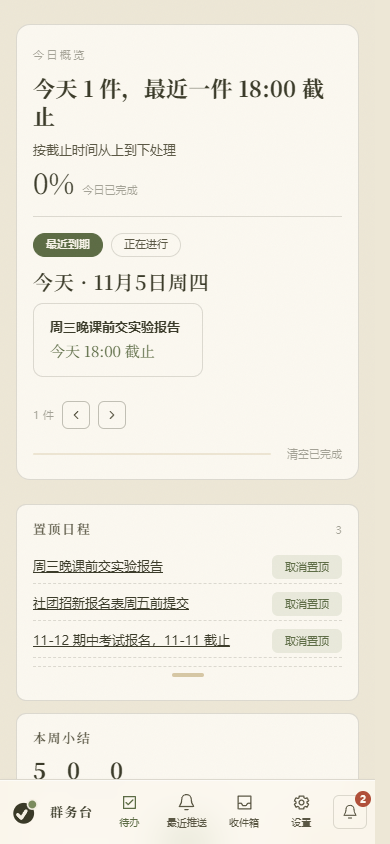
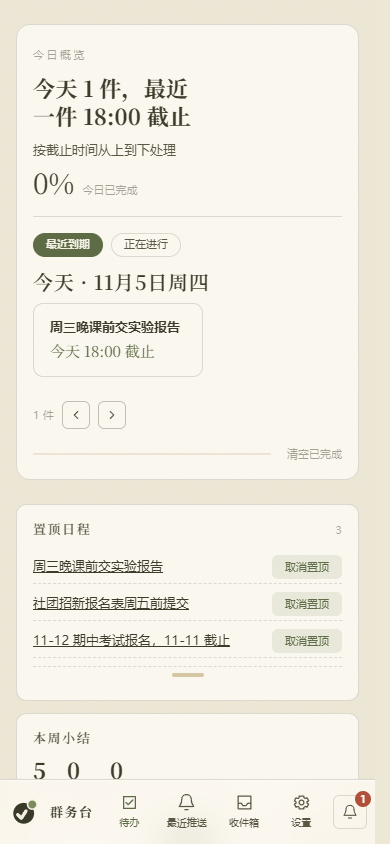
docs(promo): rebuild the posters and the nine cards against beta.1

diff --git a/docs/promo/poster.html b/docs/promo/poster.html
@@ -6,10 +6,51 @@
 <title>群务台 · notice-hub</title>
 <style>
 :root{--page:#e8ebee;--paper:#fff;--paper-alt:#f2f4f6;--ink:#172722;--muted:#3d4f47;--line:#b0b8bd;--teal:#12695b;--teal-soft:#d6ede7;--warm:#f7efe8;--shadow:0 18px 40px rgba(20,49,39,.10);--font:"MiSans","HarmonyOS Sans","PingFang SC","Microsoft YaHei",sans-serif}
-*{box-sizing:border-box}html,body{margin:0;background:var(--page);color:var(--ink);font-family:var(--font);font-synthesis:none}body{min-width:320px}.poster{position:relative;overflow:hidden;width:100vw;height:100vh;min-height:560px;padding:clamp(30px,4.2vw,72px) clamp(30px,5.4vw,104px) clamp(24px,3.4vw,58px);background:var(--page)}.poster:before{content:"";position:absolute;inset:0;pointer-events:none;opacity:.4;background-image:radial-gradient(#9eb5ac 1px,transparent 1px);background-size:28px 28px;mask-image:linear-gradient(90deg,black,transparent 45%)}.frame{position:relative;z-index:1;display:grid;grid-template-columns:minmax(0,.94fr) minmax(560px,1.34fr);gap:clamp(28px,3.4vw,72px);height:100%;max-width:1740px;margin:auto;align-items:center}.copy{display:flex;flex-direction:column;align-items:flex-start;min-width:0}.brand{display:flex;align-items:center;gap:12px;margin-bottom:clamp(34px,5vh,62px);color:var(--teal);font-size:19px;font-weight:700;letter-spacing:.08em}.brand-mark{display:grid;place-items:center;width:34px;height:34px;border:2px solid var(--teal);border-radius:50%;font-size:20px;line-height:1}.title{margin:0;max-width:700px;font-size:clamp(42px,5.2vw,88px);line-height:1.08;letter-spacing:-.055em;font-weight:750}.subtitle{margin:24px 0 0;color:var(--muted);font-size:clamp(18px,1.7vw,29px);line-height:1.4;font-weight:500}.changes{display:grid;grid-template-columns:1fr 1fr;gap:11px 26px;margin:34px 0 0;padding:0;list-style:none;color:var(--muted);font-size:clamp(13px,1.02vw,17px);line-height:1.36}.changes li{display:flex;gap:10px;align-items:flex-start}.changes b{flex:0 0 auto;display:grid;place-items:center;width:1.6em;height:1.6em;margin-top:.05em;border-radius:7px;background:var(--teal-soft);color:var(--teal);font-size:.8em;font-weight:800;font-variant-numeric:tabular-nums}.footer{display:flex;flex-wrap:wrap;gap:12px 20px;align-items:center;margin-top:auto;padding-top:30px;color:var(--muted);font-size:clamp(11px,.85vw,14px);line-height:1.4}.badge{padding:8px 12px;border:1px solid #b4c3bd;border-radius:999px;background:rgba(255,255,255,.55)}.url{font-variant-numeric:tabular-nums;letter-spacing:.02em}.visual{position:relative;min-width:0;display:flex;align-items:center;justify-content:center;padding:18px 0 18px 20px}.visual:before{content:"";position:absolute;inset:12% -4% 5% 8%;border:1px solid rgba(18,105,91,.22);border-radius:24px;background:rgba(214,237,231,.38);transform:rotate(-2deg);z-index:-1}.desktop-shot{display:block;width:100%;max-height:none;object-fit:cover;object-position:top left;border:1px solid #b6c8c0;border-radius:16px;box-shadow:var(--shadow);background:#fff}.phone-shot{position:absolute;right:-3%;bottom:-8%;width:22%;max-height:none;object-fit:cover;object-position:top left;border:5px solid #fff;border-radius:22px;box-shadow:0 15px 30px rgba(20,49,39,.18);transform:rotate(2.5deg);background:#fff}.corner{position:absolute;right:0;top:2%;width:44px;height:44px;border-top:1px solid var(--teal);border-right:1px solid var(--teal)}
-@media (max-aspect-ratio:1.25/1){.poster{height:auto;min-height:100vh;padding:44px 34px 30px}.frame{grid-template-columns:1fr;gap:30px;min-height:calc(100vh - 74px);align-content:start}.brand{margin-bottom:36px}.title{font-size:clamp(42px,8vw,70px)}.visual{order:2;padding:10px 0 30px}.desktop-shot{max-height:none}.phone-shot{right:1%;bottom:-5%;width:24%;max-height:none}.footer{margin-top:32px}}
-@media (max-width:700px){.poster{padding:34px 24px 26px}.frame{gap:24px}.brand{margin-bottom:34px;font-size:16px}.title{font-size:clamp(38px,10vw,58px)}.subtitle{margin-top:18px;font-size:19px}.points{margin-top:26px;gap:10px;font-size:14px}.footer{margin-top:24px;gap:8px;font-size:10px}.badge{padding:6px 9px}.visual{padding-top:2px}.desktop-shot{max-height:none}.phone-shot{width:25%;border-width:3px;border-radius:14px}}
-@media (prefers-reduced-motion:reduce){.desktop-shot,.phone-shot,.visual:before{transform:none}}
+*{box-sizing:border-box}
+html,body{margin:0;background:var(--page);color:var(--ink);font-family:var(--font);font-synthesis:none}
+body{min-width:320px}
+.poster{position:relative;overflow:hidden;width:100vw;height:100vh;min-height:560px;padding:clamp(30px,4.2vw,72px) clamp(30px,5.4vw,104px) clamp(24px,3.4vw,58px);background:var(--page)}
+.poster:before{content:"";position:absolute;inset:0;pointer-events:none;opacity:.4;background-image:radial-gradient(#9eb5ac 1px,transparent 1px);background-size:28px 28px;mask-image:linear-gradient(90deg,black,transparent 45%)}
+.frame{position:relative;z-index:1;display:grid;grid-template-columns:minmax(0,.96fr) minmax(540px,1.3fr);gap:clamp(28px,3.4vw,72px);height:100%;max-width:1740px;margin:auto;align-items:center}
+.copy{display:flex;flex-direction:column;align-items:flex-start;min-width:0}
+.brand{display:flex;align-items:center;gap:12px;margin-bottom:clamp(30px,4.6vh,56px);color:var(--teal);font-size:19px;font-weight:700;letter-spacing:.08em}
+.brand-mark{display:grid;place-items:center;width:34px;height:34px;border:2px solid var(--teal);border-radius:50%;font-size:20px;line-height:1}
+.title{margin:0;max-width:720px;font-size:clamp(42px,5vw,84px);line-height:1.06;letter-spacing:-.055em;font-weight:750}
+.lede{margin:26px 0 0;max-width:640px;color:var(--muted);font-size:clamp(17px,1.5vw,26px);line-height:1.45;font-weight:500}
+.changes{display:grid;grid-template-columns:1fr;gap:12px;margin:clamp(26px,3.6vh,40px) 0 0;padding:0;list-style:none;color:var(--muted);font-size:clamp(14px,1.05vw,18px);line-height:1.4}
+.changes li{display:flex;gap:12px;align-items:baseline}
+.changes b{flex:0 0 auto;display:grid;place-items:center;width:1.65em;height:1.65em;border-radius:8px;background:var(--teal-soft);color:var(--teal);font-size:.78em;font-weight:800;font-variant-numeric:tabular-nums;align-self:center}
+.changes span{min-width:0}
+.footer{display:flex;flex-wrap:wrap;gap:10px 18px;align-items:center;margin-top:auto;padding-top:clamp(26px,3.4vh,40px);color:var(--muted);font-size:clamp(11px,.86vw,14px);line-height:1.4}
+.badge{padding:8px 12px;border:1px solid var(--line);border-radius:999px;background:var(--paper)}
+.url{font-variant-numeric:tabular-nums}
+.visual{position:relative;display:grid;place-items:center;min-width:0}
+.window{position:relative;width:100%;border-radius:18px;background:var(--paper);box-shadow:var(--shadow);overflow:hidden;border:1px solid rgba(23,39,34,.10)}
+.window-bar{display:flex;align-items:center;gap:7px;padding:11px 14px;border-bottom:1px solid rgba(23,39,34,.08);background:var(--paper-alt)}
+.window-bar i{width:9px;height:9px;border-radius:50%;background:#cfd6d9}
+.window-bar i:first-child{background:#e1b4a8}
+.window-bar i:nth-child(2){background:#e5d3a3}
+.window-bar i:nth-child(3){background:#a9cbba}
+.window-bar span{margin-left:8px;color:var(--muted);font-size:12px;letter-spacing:.02em}
+.desktop-shot{display:block;width:100%;height:auto}
+.phone-shot{position:absolute;right:-2%;bottom:-8%;width:23%;min-width:150px;border:6px solid #1b2a24;border-radius:26px;box-shadow:0 16px 32px rgba(20,49,39,.22);background:#1b2a24}
+.corner{position:absolute;inset:auto -3% -6% auto;width:38%;height:38%;border-radius:50%;background:radial-gradient(circle at 50% 50%,var(--warm),transparent 70%);filter:blur(8px);z-index:-1}
+/* 竖版：视口比窄时自动切换，渲染时把 viewport 设成 1080x1350 即可 */
+@media (max-aspect-ratio:1.24/1){
+  .poster{height:100vh;min-height:0;padding:62px 58px 46px;display:flex}
+  .frame{grid-template-columns:1fr;grid-template-rows:auto auto;gap:clamp(22px,3.4vh,38px);height:100%;align-content:space-between;align-items:stretch}
+  .title{font-size:clamp(54px,7vw,76px)}
+  .lede{font-size:clamp(20px,2.2vw,26px);max-width:900px}
+  .brand{margin-bottom:24px;font-size:18px}
+  .changes{gap:clamp(10px,1.5vh,16px);font-size:clamp(16px,1.75vw,20px);margin-top:clamp(18px,2.6vh,30px)}
+  .visual{order:2;height:clamp(360px,44vh,600px);overflow:hidden;align-items:start;padding:0}
+  .window{height:100%;border-radius:14px}
+  .desktop-shot{width:100%;height:100%;object-fit:cover;object-position:50% 0}
+  .phone-shot{display:none}
+  .corner{display:none}
+  .footer{margin-top:0;padding-top:clamp(18px,2.6vh,28px)}
+}
+@media (prefers-reduced-motion:reduce){.desktop-shot,.phone-shot{transform:none}}
 </style>
 </head>
 <body>
@@ -17,24 +58,24 @@
   <div class="frame">
     <section class="copy">
       <div class="brand"><span class="brand-mark">✓</span><span>群务台</span></div>
-      <h1 class="title">群里的通知，自动变成待办</h1>
-      <p class="subtitle">v1.1.0 测试版 · 相对 v1.0.0 有 8 处变化</p>
+      <h1 class="title">群里的通知，<br>自动变成待办</h1>
+      <p class="lede">四个来源，只读你勾的那几个群；要动手的事进待办台，截止日导进手机日历。数据留在这台电脑上。</p>
       <ol class="changes">
-        <li><b>1</b><span>钉钉群、学习通、微信群一起收进来</span></li>
-        <li><b>2</b><span>设置页一键检查更新，下载即覆盖</span></li>
-        <li><b>3</b><span>接入自检：卡住时告诉你卡在哪</span></li>
-        <li><b>4</b><span>手机点扫码不再闪退</span></li>
-        <li><b>5</b><span>连不上 / 失效都有出口</span></li>
-        <li><b>6</b><span>扫码页不再横屏</span></li>
-        <li><b>7</b><span>收件箱里能看见附件图</span></li>
-        <li><b>8</b><span>一批「看着正常其实断了」的毛病</span></li>
+        <li><b>1</b><span>钉钉群、微信群、学习通，跟 QQ 群一起收</span></li>
+        <li><b>2</b><span>待办台、月历、公告面板重做了一遍</span></li>
+        <li><b>3</b><span>设置页一键更新：下载、校验 SHA-256、覆盖</span></li>
+        <li><b>4</b><span>Linux 和 macOS 也能跑（源码 + systemd / LaunchAgent）</span></li>
+        <li><b>5</b><span>数据库坏了会自动隔离，每天留一份快照，保 7 天</span></li>
       </ol>
-      <div class="footer"><span class="badge">Windows 出货包 · 安卓 App · 源码开放 · 非商业许可（商用需授权） · v1.1.0-beta.1</span><span class="url">github.com/ExpertKT/notice-hub</span></div>
+      <div class="footer"><span class="badge">Windows 出货包 · 安卓 App · 源码开放 · 非商业许可（商用需授权） · v1.1.0 测试版</span><span class="url">github.com/ExpertKT/notice-hub</span></div>
     </section>
     <section class="visual" aria-label="群务台界面截图">
       <span class="corner"></span>
-      <img class="desktop-shot" src="../screenshots/desktop-tasks.png" alt="群务台桌面待办台截图">
-      <img class="phone-shot" src="shots/phone-overview.png" alt="群务台手机端截图">
+      <figure class="window">
+        <div class="window-bar"><i></i><i></i><i></i><span>127.0.0.1:8766 · 待办</span></div>
+        <img class="desktop-shot" src="../screenshots/desktop-tasks.png" alt="群务台桌面待办台：今日概览、置顶日程、本周小结、月历">
+      </figure>
+      <img class="phone-shot" src="../screenshots/phone-tasks.png" alt="群务台手机端待办台">
     </section>
   </div>
 </main>

diff --git a/docs/promo/cards.html b/docs/promo/cards.html
@@ -1,0 +1,167 @@
+<!doctype html>
+<html lang="zh-CN">
+<head>
+<meta charset="utf-8">
+<title>群务台 · 九图</title>
+<style>
+:root{
+  --page:#e8ebee;--paper:#fff;--ink:#172722;--dim:#4c5f59;--faint:#7b8b85;
+  --line:#dbe0e0;--teal:#12695b;--teal-soft:#d6ede7;--warm:#f7efe8;--card-alt:#f6f7f7;
+  --font:"MiSans","HarmonyOS Sans","PingFang SC","Microsoft YaHei",system-ui,sans-serif;
+  --serif:"Source Han Serif SC","Songti SC","SimSun",Georgia,serif;
+}
+*{box-sizing:border-box;margin:0;padding:0}
+body{background:var(--page);font-family:var(--font);color:var(--ink);padding:40px 22px;display:flex;flex-direction:column;gap:22px;align-items:center}
+.card{
+  width:1080px;height:1080px;flex:none;position:relative;overflow:hidden;
+  background:var(--paper);padding:78px 82px;display:flex;flex-direction:column;border-radius:6px;
+}
+.card::before{
+  content:"";position:absolute;top:0;right:0;width:430px;height:330px;
+  background-image:radial-gradient(circle,var(--teal) 1.4px,transparent 1.5px);
+  background-size:20px 20px;opacity:.16;
+  -webkit-mask-image:radial-gradient(circle at 100% 0,#000 0%,transparent 72%);
+          mask-image:radial-gradient(circle at 100% 0,#000 0%,transparent 72%);
+}
+.eyebrow{display:flex;justify-content:space-between;align-items:center;font-size:23px;letter-spacing:.14em;color:var(--teal)}
+.eyebrow .no{color:var(--faint);letter-spacing:.1em;font-variant-numeric:tabular-nums}
+h2{margin-top:38px;font-family:var(--serif);font-size:74px;line-height:1.16;letter-spacing:-.01em}
+.sub{margin-top:26px;font-size:29px;line-height:1.55;color:var(--dim);max-width:880px}
+.foot{position:absolute;left:82px;bottom:52px;font-size:21px;color:var(--faint);letter-spacing:.02em}
+.visual{margin-top:52px;flex:1;min-height:0;overflow:hidden;position:relative}
+.visual img{display:block;width:100%;height:100%;object-fit:cover;object-position:50% 0;border-radius:16px 16px 0 0;border:1px solid var(--line);border-bottom:0;box-shadow:0 14px 30px rgba(20,49,39,.08)}
+.visual.fit{flex:none;overflow:visible}
+.visual.fit img{width:100%;height:auto;object-fit:contain;border-bottom:1px solid var(--line);border-radius:16px}
+.visual.dock{margin-top:auto;flex:none;overflow:hidden;border-radius:16px 16px 0 0}
+.tiles{display:grid;grid-template-columns:1fr 1fr;gap:20px;margin-top:52px}
+.tile{border:1px solid var(--line);border-radius:18px;padding:30px 28px;background:var(--card-alt)}
+.tile b{display:block;font-size:34px;font-weight:600}
+.tile span{display:block;margin-top:10px;font-size:24px;color:var(--dim)}
+.note{margin-top:auto;margin-bottom:34px;font-size:26px;line-height:1.5;color:var(--dim);border-left:3px solid var(--teal-soft);padding-left:20px}
+.rows{display:flex;flex-direction:column;gap:14px;margin-top:44px}
+.row{display:flex;align-items:center;gap:16px;padding:20px 24px;border:1px solid var(--line);border-radius:14px;background:var(--card-alt);font-size:25px;color:var(--ink)}
+.row i{width:9px;height:9px;border-radius:50%;background:var(--teal);flex:none}
+.row em{margin-left:auto;font-style:normal;color:var(--faint);font-size:23px}
+.code{margin-top:44px;padding:30px 32px;border-radius:18px;background:#12211d;color:#dfeee9;font-family:"JetBrains Mono","Cascadia Mono",Consolas,monospace;font-size:24px;line-height:1.72;white-space:pre}
+.code b{color:#7fd3bd;font-weight:600}
+.bubble{margin-top:auto;border:1px solid var(--line);border-radius:20px;padding:30px 32px;background:var(--warm);box-shadow:0 18px 34px rgba(20,49,39,.08)}
+.bubble h4{font-size:24px;color:var(--teal);font-weight:600;letter-spacing:.02em}
+.bubble p{margin-top:14px;font-size:29px;line-height:1.5}
+.bubble span{display:block;margin-top:16px;font-size:22px;color:var(--faint)}
+.phone{margin-top:52px;flex:1;min-height:0;display:flex;justify-content:flex-end;overflow:hidden}
+.phone img{width:100%;height:auto;border-radius:26px;border:1px solid var(--line);box-shadow:0 20px 40px rgba(20,49,39,.14)}
+.split{display:grid;grid-template-columns:1fr 240px;gap:30px;margin-top:44px;flex:1;min-height:0;align-items:start}
+.split .rows{margin-top:0}
+</style>
+</head>
+<body>
+
+  <section class="card" id="card-01">
+    <div class="eyebrow"><span>四个来源</span><span class="no">01 / 09</span></div>
+    <h2>QQ 群之外，<br>那三个也收</h2>
+    <p class="sub">钉钉、微信群、超星学习通，跟 QQ 群进同一张待办表。哪个来源没配好，另外三个照常收。</p>
+    <div class="tiles">
+      <div class="tile"><b>QQ 群</b><span>NapCat / OneBot</span></div>
+      <div class="tile"><b>钉钉</b><span>群消息与作业</span></div>
+      <div class="tile"><b>微信群</b><span>读本机数据库</span></div>
+      <div class="tile"><b>学习通</b><span>课程与作业</span></div>
+    </div>
+    <p class="note">合起来按截止时间排：先今天的，再本周，然后以后。</p>
+    <div class="foot">github.com/ExpertKT/notice-hub</div>
+  </section>
+
+  <section class="card" id="card-02">
+    <div class="eyebrow"><span>只读，不越界</span><span class="no">02 / 09</span></div>
+    <h2>没订阅的群，<br>一条都不碰</h2>
+    <p class="sub">白名单之外的消息不解析、不入库。勾哪几个群，是你在设置里一个个点出来的。</p>
+    <div class="visual fit"><img src="cards/src/promo-groups.png" alt="设置页里的群订阅列表"></div>
+    <div class="foot">github.com/ExpertKT/notice-hub</div>
+  </section>
+
+  <section class="card" id="card-03">
+    <div class="eyebrow"><span>先降噪</span><span class="no">03 / 09</span></div>
+    <h2>纯「[图片]」的，<br>默认折起来</h2>
+    <p class="sub">收件箱按类型分：全部、文字、图片、链接、文件、含占位符。判不准的标「待确认」，等你一句话再转成待办。</p>
+    <div class="visual"><img src="../screenshots/desktop-inbox.png" alt="收件箱的类型筛选与待确认标记"></div>
+  </section>
+
+  <section class="card" id="card-04">
+    <div class="eyebrow"><span>待办台</span><span class="no">04 / 09</span></div>
+    <h2>今天、本周、以后</h2>
+    <p class="sub">按截止时间从上往下排。完成、忽略、置顶、稍后提醒、纠错，一排按钮都在卡片右侧。</p>
+    <div class="rows">
+      <div class="row"><i></i>今天<em>实验报告 · 18:00</em></div>
+      <div class="row"><i></i>本周<em>社团报名 · 周五前</em></div>
+      <div class="row"><i></i>以后<em>期中考试 · 11/12</em></div>
+    </div>
+    <div class="visual dock"><img src="cards/src/promo-board.png" alt="待办台的分组与卡片操作"></div>
+  </section>
+
+  <section class="card" id="card-05">
+    <div class="eyebrow"><span>月历</span><span class="no">05 / 09</span></div>
+    <h2>格子里一个点，<br>点开是当天全部</h2>
+    <p class="sub">每天最多三个圆点，放不下就不再画。点日期，当天所有事项和截止时刻一起展开。</p>
+    <div class="visual fit"><img src="cards/src/promo-calendar-open.png" alt="月历视图与当天展开的事项"></div>
+    <div class="foot">github.com/ExpertKT/notice-hub</div>
+  </section>
+
+  <section class="card" id="card-06">
+    <div class="eyebrow"><span>手机日历</span><span class="no">06 / 09</span></div>
+    <h2>截止日，<br>进系统日历</h2>
+    <p class="sub">导出 .ics 或直接订阅地址，iPhone 和安卓都不用装东西，截止时间跟着日历提醒走。</p>
+    <div class="code"><b>GET</b> /calendar.ics?token=…
+<b>BEGIN:VCALENDAR</b>
+<b>SUMMARY</b>: 周三晚课前交实验报告
+<b>DTSTART</b>: 20261105T180000
+<b>END:VEVENT</b></div>
+    <div class="rows">
+      <div class="row"><i></i>11/05 周四 18:00<em>实验报告</em></div>
+      <div class="row"><i></i>11/08 周日 23:59<em>社团报名截止</em></div>
+      <div class="row"><i></i>11/12 周四 08:00<em>期中考试</em></div>
+    </div>
+    <div class="foot">github.com/ExpertKT/notice-hub</div>
+  </section>
+
+  <section class="card" id="card-07">
+    <div class="eyebrow"><span>推送</span><span class="no">07 / 09</span></div>
+    <h2>推到你常用的地方</h2>
+    <p class="sub">四个内置通道，或者填一个自己的 HTTP 端点。发失败会回退到下一个，失败原因写在界面上，不用翻日志。</p>
+    <div class="rows">
+      <div class="row"><i></i>QQ 机器人<em>私聊 / 群</em></div>
+      <div class="row"><i></i>WxPusher<em>微信</em></div>
+      <div class="row"><i></i>Server 酱 · PushPlus<em>微信</em></div>
+      <div class="row"><i></i>自配 Webhook<em>任意端点</em></div>
+    </div>
+    <div class="bubble">
+      <h4>群务台 · 11/05 08:26</h4>
+      <p>今天 2 件：周三晚课前交实验报告（18:00）；社团报名表周五前提交。</p>
+      <span>已推送到 WxPusher；QQ 机器人失败一次，自动换通道重发。</span>
+    </div>
+    <div class="foot">github.com/ExpertKT/notice-hub</div>
+  </section>
+
+  <section class="card" id="card-08">
+    <div class="eyebrow"><span>手机 App</span><span class="no">08 / 09</span></div>
+    <h2>扫码就连，<br>数据在电脑上</h2>
+    <p class="sub">手机端是电脑服务的外壳，扫设置页的二维码自动填地址和令牌；扫不动就输 6 位配对码。</p>
+    <div class="split">
+      <div class="rows">
+        <div class="row"><i></i>扫码配对<em>地址 + 令牌</em></div>
+        <div class="row"><i></i>6 位配对码<em>手输兜底</em></div>
+        <div class="row"><i></i>局域网直连<em>同一个 Wi-Fi</em></div>
+        <div class="row"><i></i>只读查看<em>数据在电脑</em></div>
+      </div>
+      <div class="phone"><img src="../screenshots/phone-tasks.png" alt="手机端待办台"></div>
+    </div>
+  </section>
+
+  <section class="card" id="card-09">
+    <div class="eyebrow"><span>自更新</span><span class="no">09 / 09</span></div>
+    <h2>更新之前，<br>先对一遍哈希</h2>
+    <p class="sub">检查、下载、复算 SHA-256、覆盖安装，一条链走完。下载先试 Gitee，不通再走 GitHub。</p>
+    <div class="visual fit"><img src="cards/src/promo-update-available.png" alt="设置页里的版本更新卡片，有新版本待安装"></div>
+    <div class="foot">github.com/ExpertKT/notice-hub</div>
+  </section>
+
+</body>
+</html>

diff --git a/docs/promo/copy.md b/docs/promo/copy.md
@@ -1,6 +1,6 @@
-# 群务台 · 文案（几版长度）
+# 群务台 · 文案
 
-用法：图片/海报用第一版；群公告、朋友圈用短版；GitHub 简介、issue 回复用中版；公众号、博客开头用长版。
+用法：海报用第一版；群公告、朋友圈用短版；GitHub 简介、issue 回复用中版；公众号、博客开头用长版。
 
 ## 一句话
 
@@ -8,18 +8,18 @@
 
 备选：
 
-- QQ 群消息，进待办和日历
+- 四个来源，一张待办表
 - 不用再翻聊天记录找作业
 
 ## 短版（约 55 字）
 
-装上之后，QQ 群里的作业、报名、考试时间会自动排进待办台，也能订阅到手机日历。消息只在自己电脑上处理。
+QQ 群、钉钉、微信群、学习通里要动手的事，自动进待办台，截止日能导进手机日历。数据只在自己电脑上。
 
 ## 中版（约 160 字）
 
-群务台读你指定的几个 QQ 群，把闲聊滤掉，留下要做的事：作业、报名、考试、调课。网页待办台按今天、本周、以后、已完成分组，完成、忽略、置顶点一下就行。
+群务台读你勾的那几个群，把闲聊滤掉，留下要做的事：作业、报名、考试、调课。待办台按今天、本周、以后、已完成分组，完成、忽略、置顶点一下就行。
 
-手机上装 App 扫电脑上的二维码就连上了，地址和令牌都不用填；iPhone 也可以直接在系统日历里订阅截止时间。
+手机装 App 扫电脑上的二维码就连上了，地址和令牌都不用填；iPhone 可以直接在系统日历里订阅截止时间。
 
 接收是只读的，消息、待办和附件都留在本机 SQLite，不上传。
 
@@ -33,17 +33,35 @@
 
 PDF、Word、Excel、PPT、压缩包和截图能解析，原文可以回溯；提醒可以走 WxPusher、Server 酱、PushPlus、Webhook，也能推到 QQ 私聊。Windows 出货包双击即用，接的是 NapCat，只读群消息。消息、待办、附件都存在本机 SQLite，不上传。源码开放 · 非商业许可（商用需授权）。
 
-## 图上用字（海报逐字使用，别改写）
+## 海报图上用字（`poster.html`，渲染成 `poster-16x9.png` / `poster-portrait.png`）
 
 - 主标题：群里的通知，自动变成待办
-- 副标题（v1.1.0 测试版海报）：v1.1.0 测试版 · 相对 v1.0.0 有 8 处变化
-- 三条卖点（v1.1.0 测试版海报）：
-  - 钉钉群、学习通、微信群，也一起收进来
-  - 设置页一键检查更新，下载即覆盖
-  - 手机点扫码不再闪退，连不上也有出口
-- 角标：Windows 出货包 · 安卓 App · 源码开放 · 非商业许可（商用需授权） · v1.1.0-beta.1
+- 导语：四个来源，只读你勾的那几个群；要动手的事进待办台，截止日导进手机日历。数据留在这台电脑上。
+- 副标题位置（相对 1.1.0-beta.1 的变化，五条）：
+  1. 钉钉群、微信群、学习通，跟 QQ 群一起收
+  2. 待办台、月历、公告面板重做了一遍
+  3. 设置页一键更新：下载、校验 SHA-256、覆盖
+  4. Linux 和 macOS 也能跑（源码 + systemd / LaunchAgent）
+  5. 数据库坏了会自动隔离，每天留一份快照，保 7 天
+- 角标：Windows 出货包 · 安卓 App · 源码开放 · 非商业许可（商用需授权） · v1.1.0 测试版
 - 网址：github.com/ExpertKT/notice-hub
+
+## 九图用字（`cards.html`，每张 1080×1080，输出在 `cards/`）
+
+| # | 标题 | 一句说明 |
+| --- | --- | --- |
+| 01 | 一个待办台，装四个来源 | QQ 群走 NapCat；钉钉和微信群读本机数据库；学习通走浏览器 Cookie |
+| 02 | 没订阅的群，一条都不碰 | 白名单之外的消息不解析、不入库 |
+| 03 | 纯「[图片]」的，默认折起来 | 收件箱按类型分；判不准的标「待确认」 |
+| 04 | 今天、本周、以后 | 按截止时间排；完成、忽略、置顶、稍后提醒在卡片右侧 |
+| 05 | 格子里一个点，点开是当天全部 | 每天最多三个圆点；点日期展开当天事项 |
+| 06 | 截止日，进系统日历 | 导出 .ics 或直接订阅，iPhone 和安卓都不用装东西 |
+| 07 | 推到你常用的地方 | QQ 机器人、WxPusher、Server 酱、PushPlus、自配 Webhook |
+| 08 | 扫码就连，数据在电脑上 | 手机端是电脑服务的外壳 |
+| 09 | 更新之前，先对一遍哈希 | 检查、下载、复算 SHA-256、覆盖；先试 Gitee 再走 GitHub |
+
+图片文件名与编号对应：`cards/01-four-sources.png` … `cards/09-self-update.png`。
 
 ## 自检（按 stop-ai-slop-zh 五维评分）
 
-直 9 / 实 9 / 变 8 / 散 9 / 真 9 = 44/50。已删掉的金句、排比三件套和"赋能/一站式/让你的生活更轻松"类表达不再出现；短中长三版都给了具体动作（点一下、扫二维码、加进日历）而不是价值判断。
+直 9 / 实 9 / 变 8 / 散 9 / 真 9 = 44/50。没有"赋能/一站式/让你的生活更轻松"这类词，也没有排比三件套；每条都落到具体动作（扫二维码、点日期、复算哈希）或具体数字（7 天、6 位、三个圆点）。
